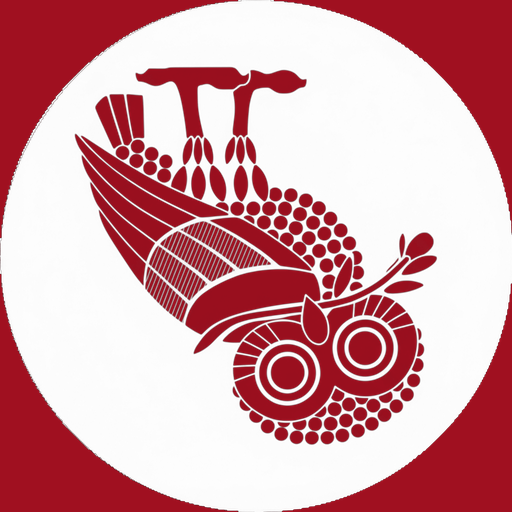
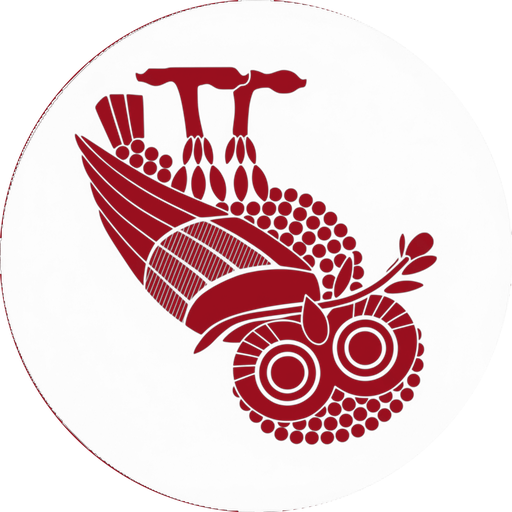
Improve owl images for consistent professional appearance
Update owl image assets to include clean meander borders and ensure transparency, with corresponding updates to the brand colors template.

Replit-Commit-Author: Agent
Replit-Commit-Session-Id: 04d5841c-d248-48c3-af77-ece889ca9a93
Replit-Commit-Checkpoint-Type: full_checkpoint
Replit-Commit-Event-Id: 1e72dc5a-ebb1-46c7-9591-d0988e0676d1
Replit-Commit-Screenshot-Url: https://storage.googleapis.com/screenshot-production-us-central1/f2c73519-b3f3-4c33-90b1-699f833acae8/04d5841c-d248-48c3-af77-ece889ca9a93/jU5EVjG
Replit-Helium-Checkpoint-Created: true

diff --git a/go-server/templates/brand_colors.html b/go-server/templates/brand_colors.html
@@ -434,7 +434,7 @@
                     </div>
                     <div class="col-md-4">
                         <div class="text-center p-3" style="background: rgba(74,157,150,0.06); border: 1px solid rgba(74,157,150,0.2); border-radius: 10px;">
-                            <img src="{{staticVersionURL "exports/dead-owl-icon/owl-NONNORMATIVE-v2-512.png" .AppVersion}}" alt="Non-Normative Owl" width="80" height="80" class="mb-2">
+                            <img src="{{staticVersionURL "exports/dead-owl-icon/owl-NONNORMATIVE-ringed-512.png" .AppVersion}}" alt="Non-Normative Owl" width="80" height="80" class="mb-2">
                             <p class="mb-1" style="font-size: 0.85rem; font-weight: 700; color: #4A9D96;">NON-NORMATIVE</p>
                             <p class="mb-1" style="font-size: 0.75rem; color: #aab2bc; font-family: 'SFMono-Regular', Consolas, monospace;">T = R(&pi;/8) &nbsp; det = +1</p>
                             <p class="mb-1" style="font-size: 0.72rem; color: #8b949e; font-family: 'SFMono-Regular', Consolas, monospace;">(x, y) &rarr; (x&middot;cos &pi;/8 &minus; y&middot;sin &pi;/8, ...)</p>
@@ -443,7 +443,7 @@
                     </div>
                     <div class="col-md-4">
                         <div class="text-center p-3" style="background: rgba(139,0,0,0.06); border: 1px solid rgba(139,0,0,0.2); border-radius: 10px;">
-                            <img src="{{staticVersionURL "exports/dead-owl-icon/DeadOwl-transparent-B-crimson-512.png" .AppVersion}}" alt="Critical Owl" width="80" height="80" class="mb-2">
+                            <img src="{{staticVersionURL "exports/dead-owl-icon/owl-CRITICAL-ringed-512.png" .AppVersion}}" alt="Critical Owl" width="80" height="80" class="mb-2">
                             <p class="mb-1" style="font-size: 0.85rem; font-weight: 700; color: #8B0000;">CRITICAL</p>
                             <p class="mb-1" style="font-size: 0.75rem; color: #aab2bc; font-family: 'SFMono-Regular', Consolas, monospace;">T = &sigma;<sub>h</sub> &nbsp; det = &minus;1</p>
                             <p class="mb-1" style="font-size: 0.72rem; color: #8b949e; font-family: 'SFMono-Regular', Consolas, monospace;">(x, y) &rarr; (x, &minus;y)</p>
